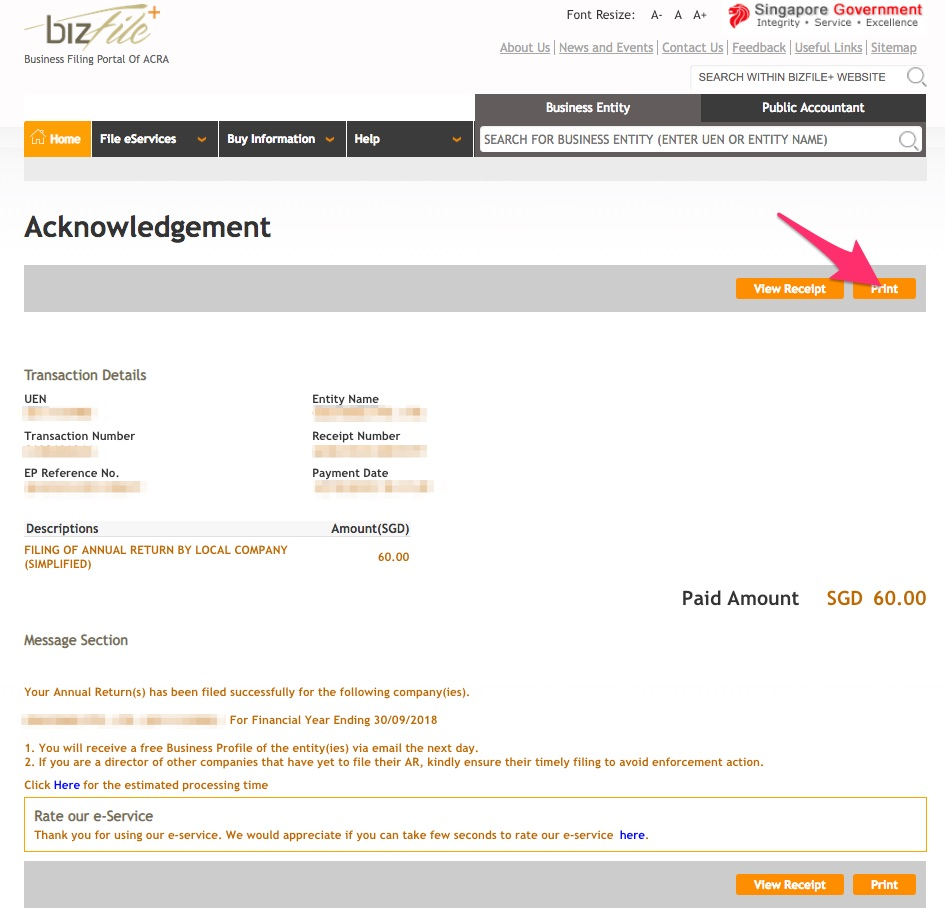
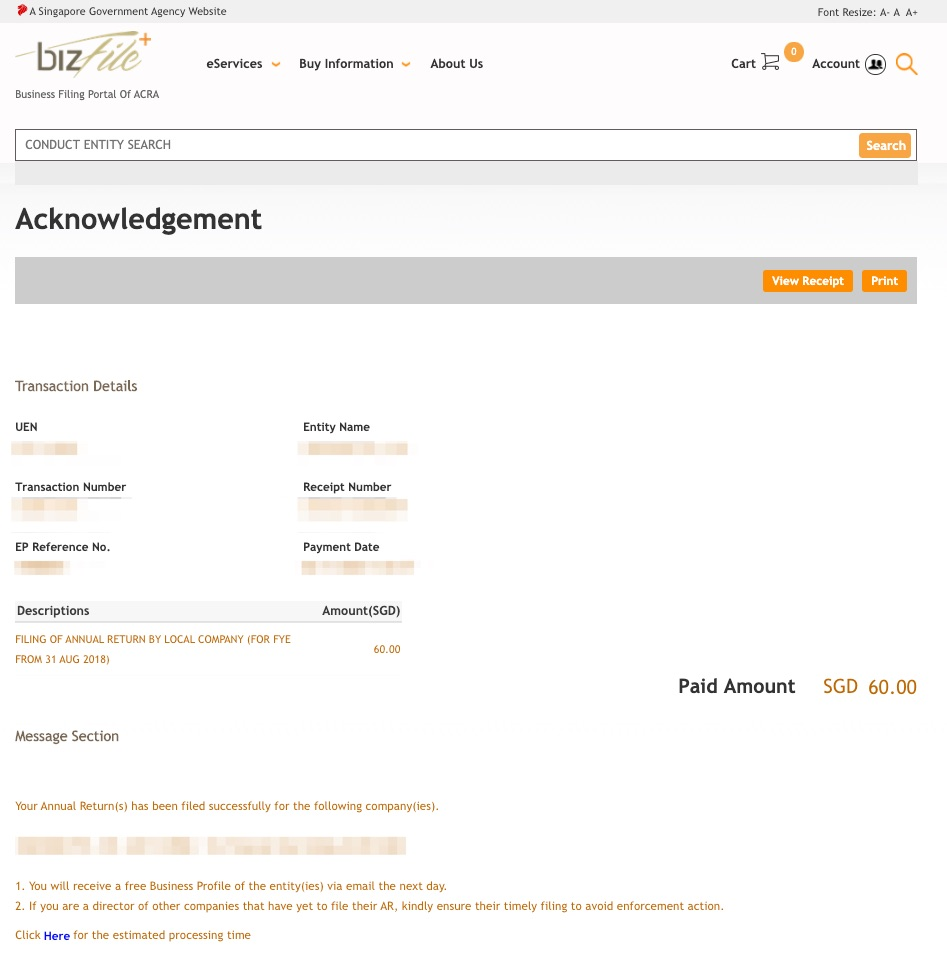
docs: add ACRA Filing 2020

diff --git a/acra.md b/acra.md
@@ -3,25 +3,49 @@
 > 15 Nov: File AGM / Annual Filling with ACRA
 
 1. Go to [Bizfile](http://www.bizfile.gov.sg/)
-1. Click `File eServices` > `Local Company` > `Annual Filing`
+1. Click menu `eServices` > `Local Company` > `Annual Filing`
+
     ![](img/acra-menu.jpg)
-1. Click either `Annual Return by Local Company (For FYE Before...)` or `Annual Return by Local Company (For FYE After...)` depending on your date
+1. Click either `Annual Return by Local Company (For FYE from 31 Aug 2018)`
+
     ![](img/acra-annual-filing.jpg)
-1. Login with Corppass
-    ![](img/acra-corppass-login.jpg)
-1. Fill in UEN number and choose `Simplified AR`
-    ![](img/acra-uen.jpg)
-1. Check **Company Information**
-    ![](img/acra-filing-1.jpg)
-1. Check **Shares**
-    ![](img/acra-filing-2.jpg)
-1. Check **Annual Return Details**
-    ![](img/acra-filing-3.jpg)
-1. Check **Declaration** and click `Submit`
-    ![](img/acra-filing-4.jpg)
-1. Preview and click `Confirm`
+1. Under Tab 1, **Annual Return Details** check **Company Information**
+
+    ![](img/acra-1.jpg)
+1. Under Tab 1, **Annual Return Details** check **Section A: Company Type and Status**
+
+    ![](img/acra-2.jpg)
+1. Under Tab 1, **Annual Return Details** check **Section A: AGM**
+
+    ![](img/acra-agm.jpg)
+1. Under Tab 1, **Annual Return Details** check **Section B: Financial Information**
+
+    ![](img/acra-3.jpg)
+1. Under Tab 1, **Annual Return Details** check **Section C: Audit Information and Declaration**
+
+    ![](img/acra-4.jpg)
+1. Under Tab 2, **Company Details** check **Company Information**
+
+    ![](img/acra-detail-1.jpg)
+1. Under Tab 2, **Company Details** check **Primary / Secondary Activities**
+
+    ![](img/acra-detail-2.jpg)
+1. Under Tab 2, **Company Details** check **Address and Company officiers and auditors**
+
+    ![](img/acra-detail-3.jpg)
+1. Under Tab 2, **Company Details** check **Share capital and members**
+
+    ![](img/acra-detail-4.jpg)
+1. Under Tab 2, **Company Details** check **Register of Controllers and Nominee Directors**
+
+    ![](img/acra-detail-5.jpg)
+1. Confirm all the details
+
     ![](img/acra-confirm.jpg)
-1. Click `Pay Now` and pay online `SGD 60`
-    ![](img/acra-pay.jpg)
-1. Print the Acknowledgement
+1. Make the payment of SGD 60.
+
+    ![](img/acra-payment.jpg)
+1. Print and keep the Acknowledgement.
+
     ![](img/acra-ack.jpg)
+1. Download the free Bizfile PDF in the email next day .

diff --git a/readme.md b/readme.md
@@ -6,6 +6,12 @@
 
 This documentation only contains the steps for a small [Solvent Exempt Private Companies (EPCs)](https://www.acra.gov.sg/xbrl-filing-and-resources/who-needs-to-file-financial-statements) which are exempt from filing financial statements. Check details on the [qualification criteria for exemption of audited accounts](https://www.acra.gov.sg/legislation/legislative-reform/companies-act-reform/companies-amendment-act-2014/two-phase-implementation-of-companies-amendment-act-2014/more-details-on-small-company-concept-for-audit-exemption).
 
+- Small
+- Exempt 
+- Private
+- Active (not dormant)
+- Solvent (not insolvent)
+
 ## Yearly tasks
 
 - [ ] **[Internal](internal.md)** on 31 Jan
